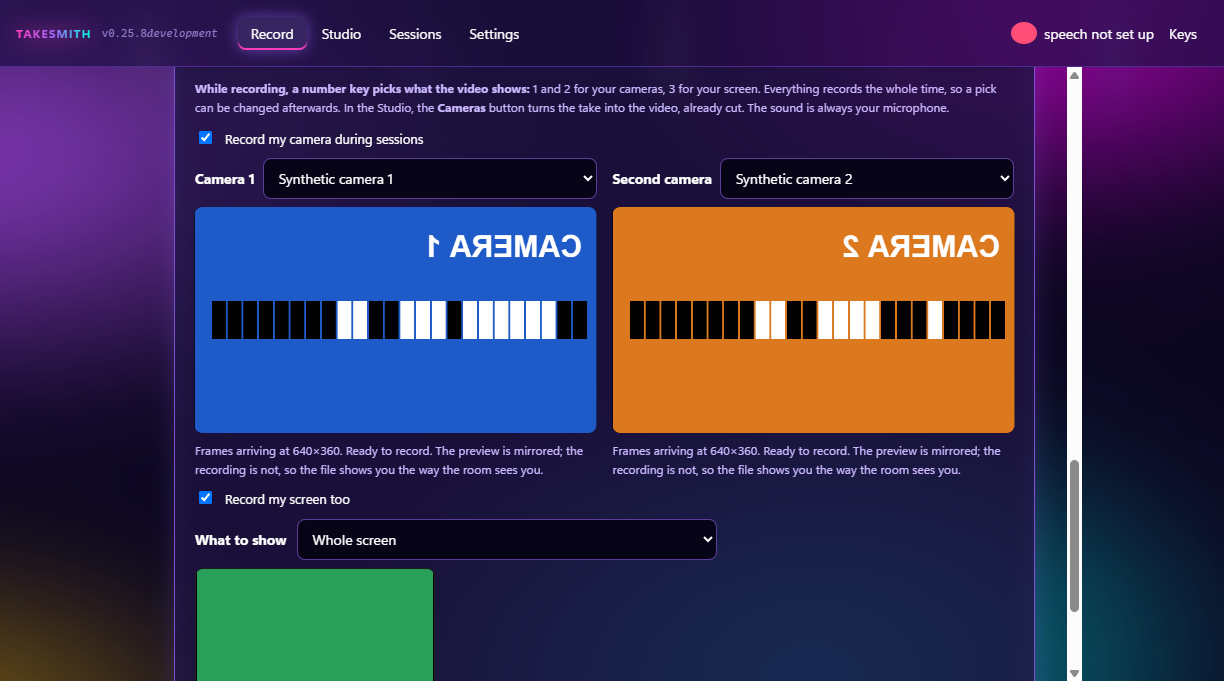
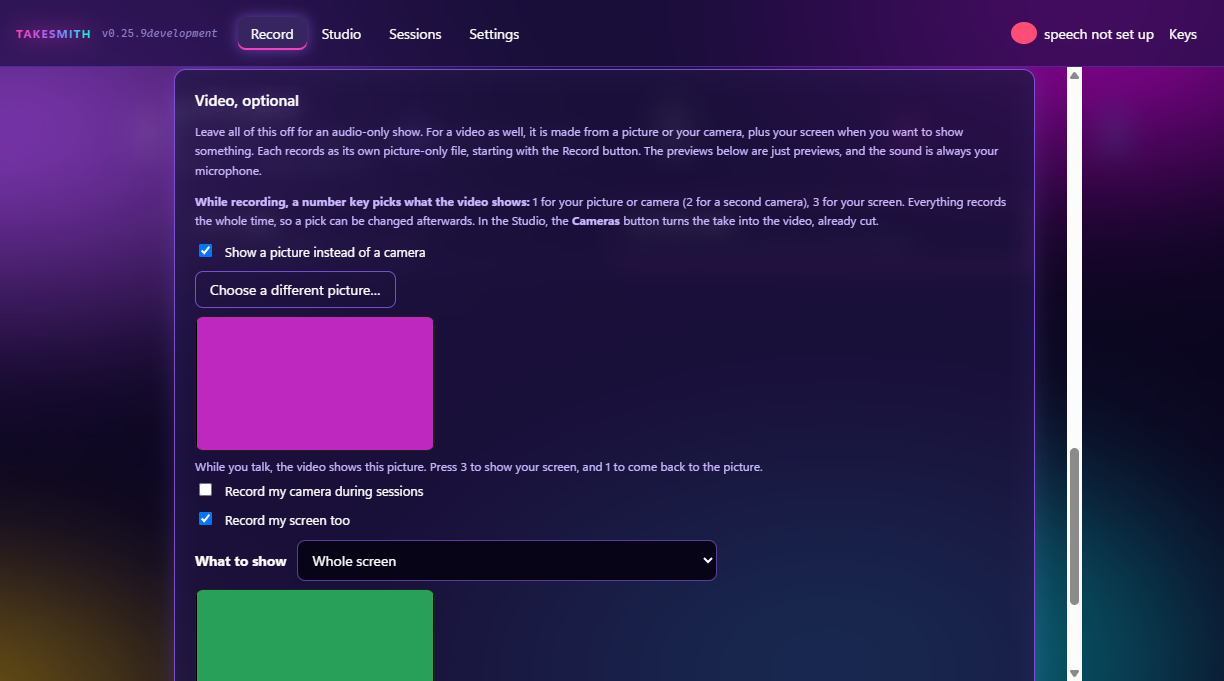
0.25.9: a picture instead of a camera, and one screen

diff --git a/README.md b/README.md
@@ -54,15 +54,17 @@ In the studio, one button cuts the cameras to the take: the camera you picked on
 
 ![The Cameras panel in the studio, with the camera in the studio's picture](shots/14-studio-cameras.png)
 
-## Your screen (0.25.8)
+## A picture and your screen (0.25.9)
+
+An audio show can still have a simple video, without a camera. Tick Show a picture instead of a camera and choose an image; it is what the video shows while you talk. Add Record my screen too for the moments when showing beats telling.
 
 For the moments when showing beats telling. Tick Record my screen too on the Record tab and pick what to show: the whole screen, or one window when Windows lists them. Takesmith never offers its own window, so the talking points stay out of the video. These pictures use a screen the app draws for itself, in green.
 
-![The Record tab with two cameras and the screen, and What to show](shots/18-screen-setup.png)
+![The Record tab with a picture instead of a camera, and the screen](shots/18-screen-setup.png)
 
-The screen records the whole take the way a camera does. While you talk, 3 puts it in the video and 1 goes back to your camera, and the picture in the corner shows the screen the right way round. In the studio, the same Cameras button cuts it in with everything else.
+Both record the whole take the way a camera does. While you talk, 3 puts your screen in the video and 1 goes back to the picture. While the screen records, Takesmith keeps itself out of the recording, so one screen is enough. In the studio, the same Cameras button cuts it all together. These pictures use a magenta picture and a green screen the app draws for itself.
 
-![Recording with the screen picked](shots/19-screen-recording.png)
+![Recording with the screen picked, and the picture on 1](shots/19-screen-recording.png)
 
 ## What you've said (0.25.7)
 
@@ -149,7 +151,7 @@ That idea turned into Takesmith.
 
 ## Current status
 
-Takesmith is under active development and testing. The released build is **0.25.8**, which records your screen as a third picture, shown with 3, after 0.25.7 wrote down what you say as you talk and 0.25.6 added two cameras. Music Lab is **0.26.0**, built and in testing, and not released yet.
+Takesmith is under active development and testing. The released build is **0.25.9**, which adds a picture instead of a camera and keeps Takesmith out of the screen recording, after 0.25.8 added the screen and 0.25.7 wrote down what you say as you talk. Music Lab is **0.26.0**, built and in testing, and not released yet.
 
 The core project is kept in a private repository while the software continues to be developed. This repository is the public home for information, screenshots, development updates, and future release information.
 
